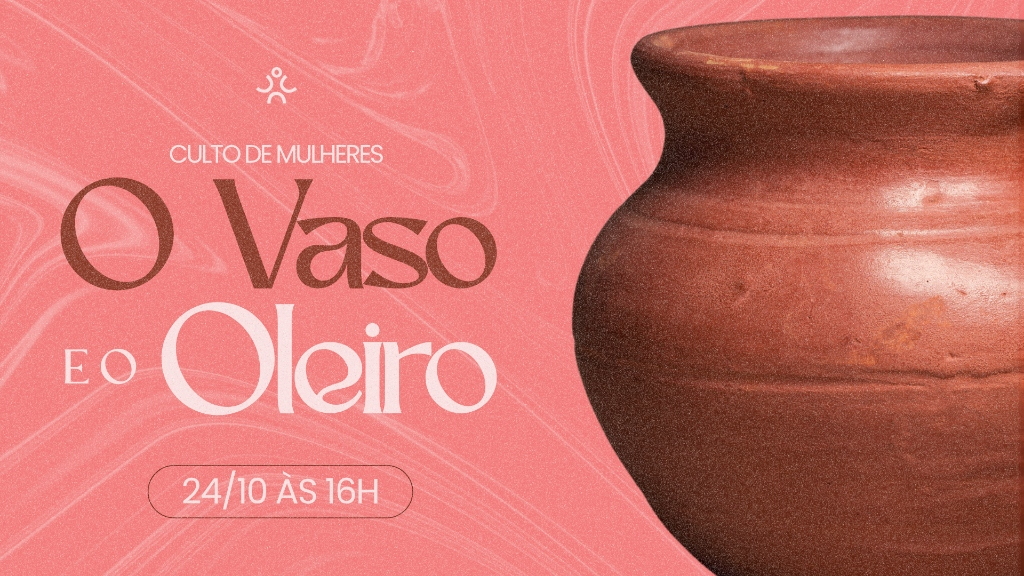
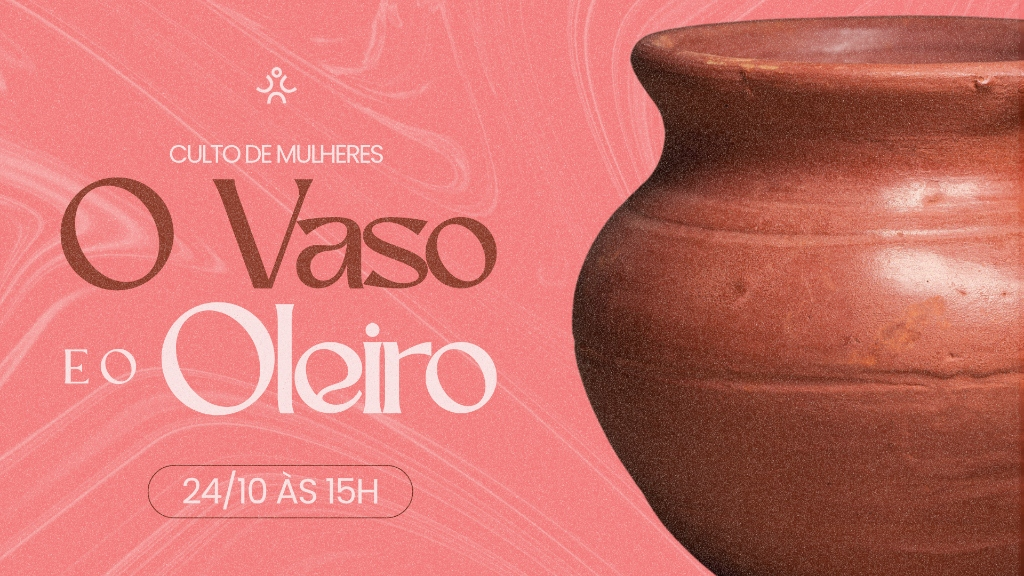
SITE

Changed region(s): [[0.5625, 0.375, 1.0, 1.0], [0.625, 0.0938, 1.0, 0.375], [0.9062, 0.0312, 0.9375, 0.0625]]

diff --git a/public/culto-mulheres.html b/public/culto-mulheres.html
@@ -4,7 +4,7 @@
     <meta charset="UTF-8">
     <meta name="viewport" content="width=device-width, initial-scale=1.0">
     <title>Inscrição: Culto de Mulheres — O Vaso e o Oleiro | Comunidade Cristã Curados</title>
-    <meta name="description" content="Inscrição individual para o Culto de Mulheres: O Vaso e o Oleiro. Dia 24/10/2026 às 16h na Comunidade Cristã Curados. Participe!">
+    <meta name="description" content="Inscrição individual para o Culto de Mulheres: O Vaso e o Oleiro. Dia 24/10/2026 às 15h na Comunidade Cristã Curados. Participe!">
     
     <link rel="icon" type="image/png" sizes="32x32" href="/favicon-32x32.png?v=3">
     <link rel="icon" type="image/png" sizes="16x16" href="/favicon-16x16.png?v=3">
@@ -519,12 +519,12 @@
                 if (data.ja_inscrito) {
                     feedback.className = 'feedback-box duplicate';
                     fTitle.innerHTML = '⚠ E-mail Já Inscrito!';
-                    fBody.innerHTML = `O e-mail <strong>${email}</strong> já está cadastrado para o Culto de Mulheres: <em>O Vaso e o Oleiro</em>. Não é necessário se inscrever novamente! Esperamos por você no dia 24/10 às 16h.`;
+                    fBody.innerHTML = `O e-mail <strong>${email}</strong> já está cadastrado para o Culto de Mulheres: <em>O Vaso e o Oleiro</em>. Não é necessário se inscrever novamente! Esperamos por você no dia 24/10 às 15h.`;
                     feedback.style.display = 'block';
                 } else if (data.ok) {
                     feedback.className = 'feedback-box success';
                     fTitle.innerHTML = '🎉 Inscrição Confirmada com Sucesso!';
-                    fBody.innerHTML = `Olá, <strong>${nome}</strong>! Sua vaga está garantida para o <strong>Culto de Mulheres: O Vaso e o Oleiro</strong> no dia <strong>24/10 às 16:00</strong>.<br><br>Esperamos com alegria por você! Você também receberá uma mensagem curta de confirmação no seu WhatsApp.`;
+                    fBody.innerHTML = `Olá, <strong>${nome}</strong>! Sua vaga está garantida para o <strong>Culto de Mulheres: O Vaso e o Oleiro</strong> no dia <strong>24/10 às 15:00</strong>.<br><br>Esperamos com alegria por você! Você também receberá uma mensagem curta de confirmação no seu WhatsApp.`;
                     feedback.style.display = 'block';
                     document.getElementById('formInscricao').reset();
                 } else {

diff --git a/web/public/culto-mulheres.html b/web/public/culto-mulheres.html
@@ -4,7 +4,7 @@
     <meta charset="UTF-8">
     <meta name="viewport" content="width=device-width, initial-scale=1.0">
     <title>Inscrição: Culto de Mulheres — O Vaso e o Oleiro | Comunidade Cristã Curados</title>
-    <meta name="description" content="Inscrição individual para o Culto de Mulheres: O Vaso e o Oleiro. Dia 24/10/2026 às 16h na Comunidade Cristã Curados. Participe!">
+    <meta name="description" content="Inscrição individual para o Culto de Mulheres: O Vaso e o Oleiro. Dia 24/10/2026 às 15h na Comunidade Cristã Curados. Participe!">
     
     <link rel="icon" type="image/png" sizes="32x32" href="/favicon-32x32.png?v=3">
     <link rel="icon" type="image/png" sizes="16x16" href="/favicon-16x16.png?v=3">
@@ -519,12 +519,12 @@
                 if (data.ja_inscrito) {
                     feedback.className = 'feedback-box duplicate';
                     fTitle.innerHTML = '⚠ E-mail Já Inscrito!';
-                    fBody.innerHTML = `O e-mail <strong>${email}</strong> já está cadastrado para o Culto de Mulheres: <em>O Vaso e o Oleiro</em>. Não é necessário se inscrever novamente! Esperamos por você no dia 24/10 às 16h.`;
+                    fBody.innerHTML = `O e-mail <strong>${email}</strong> já está cadastrado para o Culto de Mulheres: <em>O Vaso e o Oleiro</em>. Não é necessário se inscrever novamente! Esperamos por você no dia 24/10 às 15h.`;
                     feedback.style.display = 'block';
                 } else if (data.ok) {
                     feedback.className = 'feedback-box success';
                     fTitle.innerHTML = '🎉 Inscrição Confirmada com Sucesso!';
-                    fBody.innerHTML = `Olá, <strong>${nome}</strong>! Sua vaga está garantida para o <strong>Culto de Mulheres: O Vaso e o Oleiro</strong> no dia <strong>24/10 às 16:00</strong>.<br><br>Esperamos com alegria por você! Você também receberá uma mensagem curta de confirmação no seu WhatsApp.`;
+                    fBody.innerHTML = `Olá, <strong>${nome}</strong>! Sua vaga está garantida para o <strong>Culto de Mulheres: O Vaso e o Oleiro</strong> no dia <strong>24/10 às 15:00</strong>.<br><br>Esperamos com alegria por você! Você também receberá uma mensagem curta de confirmação no seu WhatsApp.`;
                     feedback.style.display = 'block';
                     document.getElementById('formInscricao').reset();
                 } else {

diff --git a/public/ministerios.html b/public/ministerios.html
@@ -1561,7 +1561,7 @@
                     <div style="margin: 16px 0; padding: 14px 16px; background: rgba(236, 72, 153, 0.12); border: 1px solid rgba(244, 114, 182, 0.35); border-radius: 14px;">
                         <div style="display: flex; align-items: center; justify-content: space-between; gap: 8px; margin-bottom: 6px;">
                             <span style="font-size: 0.78rem; font-weight: 800; color: #f472b6; text-transform: uppercase; letter-spacing: 0.5px;">🌸 Próximo Evento</span>
-                            <span style="font-size: 0.8rem; font-weight: 700; color: #cbd5e1;">24/10 às 16h</span>
+                            <span style="font-size: 0.8rem; font-weight: 700; color: #cbd5e1;">24/10 às 15h</span>
                         </div>
                         <div style="font-size: 1.02rem; font-weight: 800; color: #ffffff; margin-bottom: 6px;">
                             Culto de Mulheres: O Vaso e o Oleiro

diff --git a/web/public/ministerios.html b/web/public/ministerios.html
@@ -1561,7 +1561,7 @@
                     <div style="margin: 16px 0; padding: 14px 16px; background: rgba(236, 72, 153, 0.12); border: 1px solid rgba(244, 114, 182, 0.35); border-radius: 14px;">
                         <div style="display: flex; align-items: center; justify-content: space-between; gap: 8px; margin-bottom: 6px;">
                             <span style="font-size: 0.78rem; font-weight: 800; color: #f472b6; text-transform: uppercase; letter-spacing: 0.5px;">🌸 Próximo Evento</span>
-                            <span style="font-size: 0.8rem; font-weight: 700; color: #cbd5e1;">24/10 às 16h</span>
+                            <span style="font-size: 0.8rem; font-weight: 700; color: #cbd5e1;">24/10 às 15h</span>
                         </div>
                         <div style="font-size: 1.02rem; font-weight: 800; color: #ffffff; margin-bottom: 6px;">
                             Culto de Mulheres: O Vaso e o Oleiro
